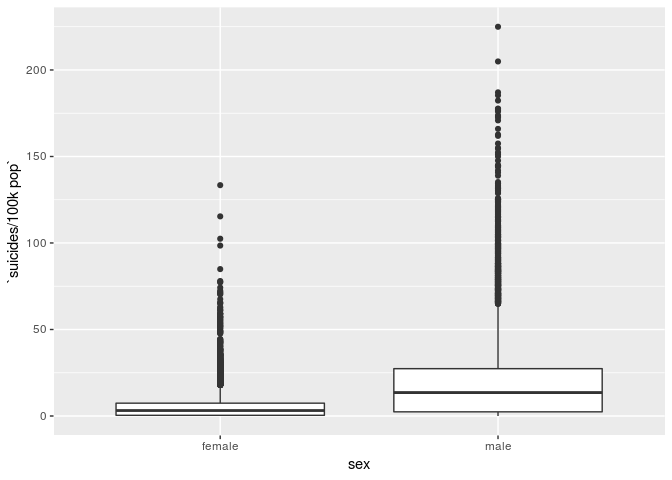
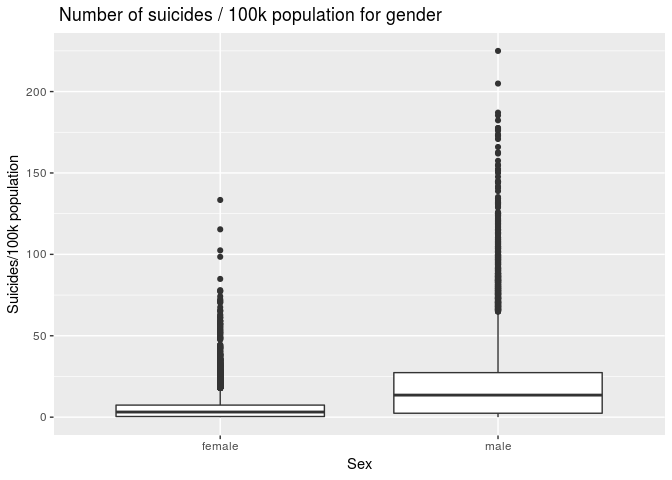
Calculated summary statistics

diff --git a/proposal/proposal.md b/proposal/proposal.md
@@ -77,48 +77,55 @@ situation contribute to suicide rates, we are asking about the
 relationship between variables and whether or not our predictors have a
 correlation with our outcome. The predictor variables in this data set
 are GDP per capita, gender, generation, country, and age, and our
-outcome variable are the no of suicides. We are comparing relationships
-between GDP per capita and number of suicides, gender and number of
-suicides, generation and number of suicides, country and number of
-suicides, and age and number of suicides.
+outcome variable are the no of suicides/100k population. We are
+comparing relationships between GDP per capita and number of
+suicides/100k population , gender and number of suicides, generation and
+number of suicides, country and number of suicides, and age and number
+of suicides/100k population.
 
-Exploratory Data Analysis: I first tried to find average number of
-suicides by country. However, the first result showed many numbers very
-very close to 1. This seems to be because the data is very specific. Not
-only does every country and year have its own number of suicides but so
-does every every and age group. This means that there are a lot of
-entries of 0 suicides in specific age group that cause the average to
-get very close to 0. To do broader analysis by year, we’re going to need
-to make new entries that have the total number of suicides in a given
-country in a year.
+Exploratory Data Analysis:
+
+I first tried to find average number of suicides by country. However,
+the first result showed many numbers very very close to 1. This seems to
+be because the data is very specific. Not only does every country and
+year have its own number of suicides but so does every every and age
+group. This means that there are a lot of entries of 0 suicides in
+specific age group that cause the average to get very close to 0. To do
+broader analysis by year, we’re going to need to make new entries that
+have the total number of suicides in a given country in a year.
 
 In order to look more into relationships betweeen specific variables, we
-may need to use the count() function to determine the number of suicides
-for a specific variable, instead of looking at 12 variables at once.
-I’ve done this in the code below if we’re interested in exploring more
-about relationships in location and number of suicides.
+may need to use the count() function to determine the number of
+suicides/100k population for a specific variable, instead of looking at
+12 variables at once. I’ve done this in the code below if we’re
+interested in exploring more about relationships between location and
+number of suicides/100k population.
 
 Count number of suicides in each country:
 
 ``` r
 suicides %>%
-  count(suicides_no, country)
+  count(`suicides/100k pop`, country) %>%
+  arrange(desc(n))
 ```
 
-    ## # A tibble: 11,466 x 3
-    ##    suicides_no country                 n
-    ##          <dbl> <chr>               <int>
-    ##  1           0 Albania                58
-    ##  2           0 Antigua and Barbuda   314
-    ##  3           0 Armenia                46
-    ##  4           0 Aruba                 116
-    ##  5           0 Australia               3
-    ##  6           0 Austria                 9
-    ##  7           0 Azerbaijan             27
-    ##  8           0 Bahamas               211
-    ##  9           0 Bahrain               146
-    ## 10           0 Barbados              220
-    ## # … with 11,456 more rows
+    ## # A tibble: 21,261 x 3
+    ##    `suicides/100k pop` country                          n
+    ##                  <dbl> <chr>                        <int>
+    ##  1                   0 Antigua and Barbuda            314
+    ##  2                   0 Grenada                        280
+    ##  3                   0 Saint Vincent and Grenadines   228
+    ##  4                   0 Barbados                       220
+    ##  5                   0 Bahamas                        211
+    ##  6                   0 Saint Lucia                    209
+    ##  7                   0 Belize                         197
+    ##  8                   0 Malta                          182
+    ##  9                   0 Seychelles                     156
+    ## 10                   0 Bahrain                        146
+    ## # … with 21,251 more rows
+
+Antigua and Barbuda have the highest number of suicides/100k population
+from 1985 to 2016.
 
 When I did some exploratory analysis comparing sex and number of
 suicides, I made this boxplot. Clearly, males have many more large
@@ -126,18 +133,57 @@ outliers than females do and also show a higher average number of
 suicides. This will be an interesting trend to explore and find the
 cause of.
 
+Create box plot for gender and number of suicides:
+
 ``` r
 suicides %>%
-  ggplot(aes(x = sex, y = `suicides/100k pop`)) +
-  geom_boxplot()
+  ggplot(aes(x = sex, y = `suicides/100k pop`)) + 
+  geom_boxplot() + labs(title = " Number of suicides / 100k population for gender", x = "Sex", y = "Suicides/100k population")
 ```
 
 ![](proposal_files/figure-gfm/suicide-by-sex-1.png)<!-- -->
+
+Calculate summary statistics for box plot:
+
+``` r
+suicides %>%
+  group_by(sex) %>%
+  summarise(min = min(`suicides/100k pop`), max = max(`suicides/100k pop`),
+            median = median(`suicides/100k pop`),
+            q1 = quantile(`suicides/100k pop`, probs = 0.25),
+            q3 = quantile(`suicides/100k pop`, probs = 0.75), 
+            iqr = q3 - q1)
+```
+
+    ## # A tibble: 2 x 7
+    ##   sex      min   max median    q1    q3   iqr
+    ##   <chr>  <dbl> <dbl>  <dbl> <dbl> <dbl> <dbl>
+    ## 1 female     0  133.   3.16  0.41  7.41   7  
+    ## 2 male       0  225.  13.6   2.42 27.4   24.9
 
 I also did some data analysis to see if there were differences in
 comparing number of suicide rates and age groups. There were clear
 differences in suicide rates by age group, with a trend that seemed to
 be proportional.
+
+A boxplot was chosen because it depicts the relationship between a
+numerical and categorical variable. The graph shows the number of
+suicides for each gender. The middle line in the box represents the
+median number of suicides/100k population. Males have the highest median
+number of suicides/100k population (13.55 suicides/100k population),
+while females have the lowest median number of suicides/100k population
+(3.16 suicides/100k population). Females have an outlier as far as
+133.42 suicides/100k population, and males have an outlier as far as
+223.97 suicides/100k popuatlion as shown by the dots in the graph. The
+25th percentile is represented by the lower line of the box, while the
+75th percentile is represented by the upper line of the box. The IQR is
+equal to the difference between the 75th and 25th percentile and is
+represented by what is inside the box. Females have the lowest IQR (7
+suicides/100k population) and males have the largest IQR (24.94
+suicides/100k population). IQR tells us that females have the smallest
+spread, while males have the largest spread.
+
+Create box plots for age and number of suicides:
 
 ``` r
 suicides %>%
@@ -147,12 +193,60 @@ suicides %>%
 
 ![](proposal_files/figure-gfm/suicide-by-age-group-1.png)<!-- -->
 
+Calculate summary statistics for box plot:
+
+``` r
+suicides %>%
+  group_by(age) %>%
+  summarise(min = min(`suicides/100k pop`), max = max(`suicides/100k pop`),
+            median = median(`suicides/100k pop`),
+            q1 = quantile(`suicides/100k pop`, probs = 0.25),
+            q3 = quantile(`suicides/100k pop`, probs = 0.75), 
+            iqr = q3 - q1)
+```
+
+    ## # A tibble: 6 x 7
+    ##   age           min   max median    q1    q3   iqr
+    ##   <chr>       <dbl> <dbl>  <dbl> <dbl> <dbl> <dbl>
+    ## 1 15-24 years     0  85.6   5.92  2.41 12.4   9.95
+    ## 2 25-34 years     0  94.2   7.25  2.93 17.0  14.0 
+    ## 3 35-54 years     0 151.    9.08  3.65 20.5  16.8 
+    ## 4 5-14 years      0  18.9   0.32  0     0.81  0.81
+    ## 5 55-74 years     0 124.   10.4   3.45 21.8  18.3 
+    ## 6 75+ years       0 225.   12.5   2.15 32.9  30.8
+
+A boxplot was chosen because it depicts the relationship between a
+numerical and categorical variable. The graph shows the number of
+suicides for each age The middle line in the box represents the median
+number of suicides/100k population. People 75+ years old have the
+highest median number of suicides/100k population (12.47 suicides/100k
+population), while people 5-14 years old have the lowest median number
+of suicides/100k population (0.320 suicides/100k population). People
+15-24 years old have an outlier as far as 85.59 suicides/100k
+population, people 25-34 years with 94.18 suicides/100k population,
+people 35-54 years old with 151.33 suicides/100k population, people 5-14
+years old with 18.92 suicides/100k population, people 55-74 years old
+with 123.83 suicides/100k population, and people 75+ years old with
+224.97 suicides/100k population. The 25th percentile is represented by
+the lower line of the box, while the 75th percentile is represented by
+the upper line of the box. The IQR is equal to the difference between
+the 75th and 25th percentile and is represented by what is inside the
+box. People 5-14 years old have the lowest IQR (0.81 suicides/100k
+population) and people 75+ years old have the largest IQR (30.78
+suicides/100k population). IQR tells us that people 5-14 years old have
+the smallest spread, while people 75+ years old have the largest spread.
+
 Some of the statistical methods that we could use in answering our
 questions could be hypothesis tests, linear regression, and
 bootstrapping techniques. We could use these tests to determine the
 strength and validity of a relationship. When we do hypothesis tests we
-are looking for p-values at or below 0.05. And when we do linear
-regression models we are looking for high r-squared values.
+are looking for p-values at or below 0.05 to determine whether there is
+no difference between number of suicides/100k population for variables
+of one type versus number of suicides/100k population for variables of
+another type (if there is a difference between number of suicides/100k
+population for females than for males). And when we do linear regression
+models we are looking for high r-squared values. Higher r-squared values
+indicates that there is higher linear correlation between variables.
 
 ## Section 3. Data
 
